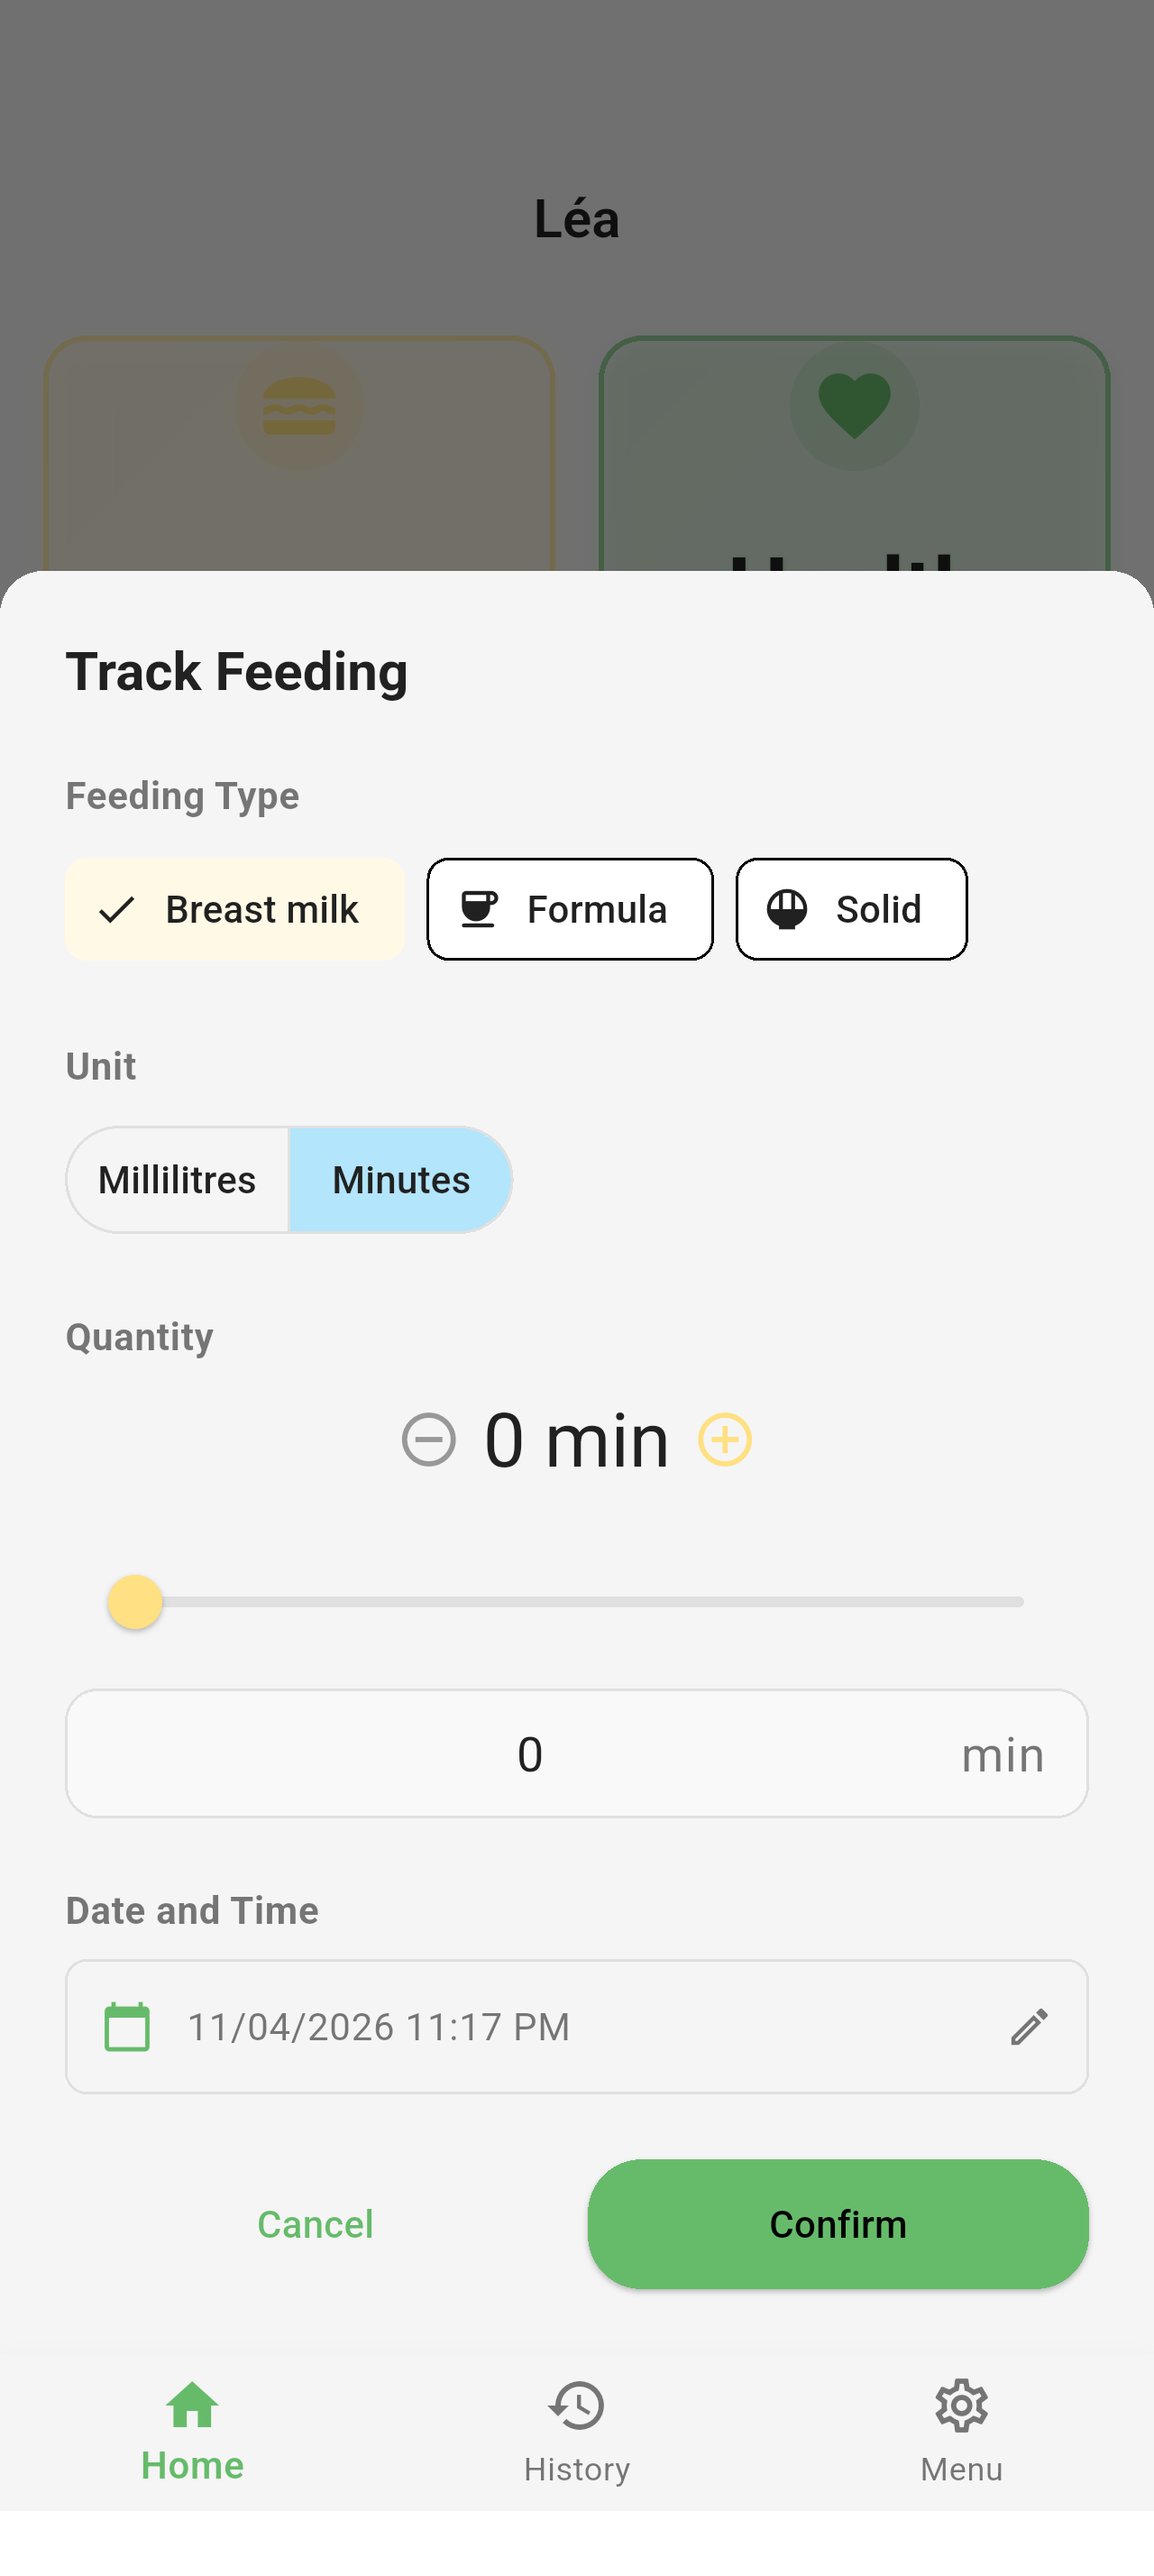
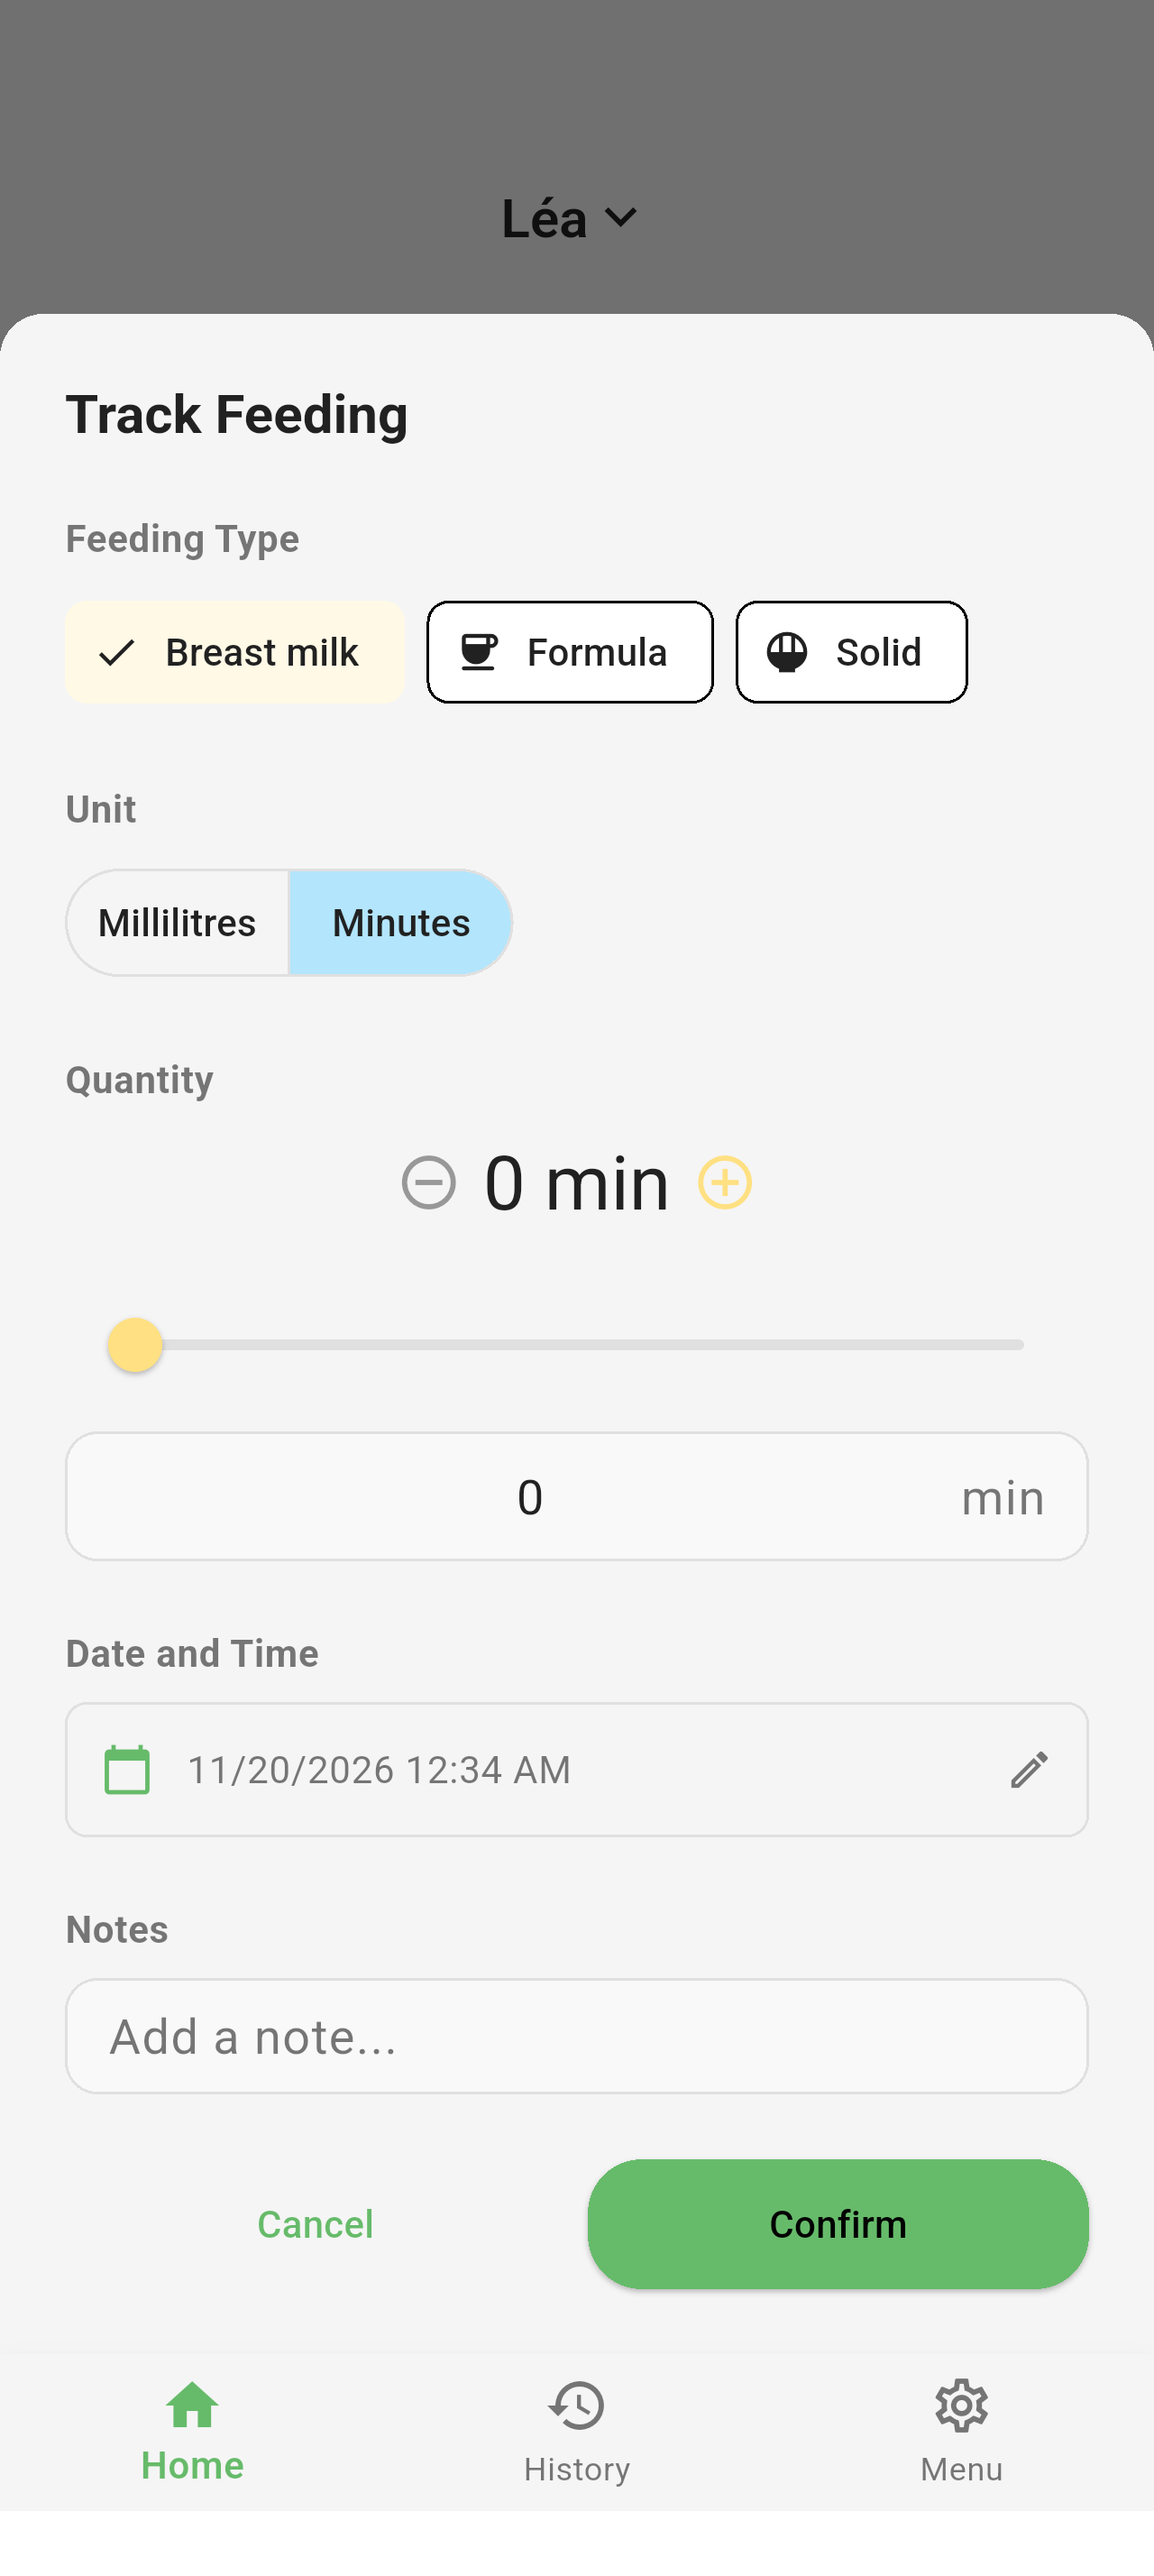
chore(release): v1.4.0 F-Droid artifacts — build 17
- changelogs/17.txt in en/fr/es (the Play release notes, * -bulleted
  like 15/16); F-Droid reads the changelog by versionCode at the tag
- docs/fdroiddata/com.pvjio.mamadera.yml: single Builds entry
  (1.4.0 / 17, commit: v1.4.0), CurrentVersion bumped. The recipe
  blocks are unchanged — git diff v1.3.2..develop over android/,
  ios/, pubspec.lock and the CI workflow is empty, so the seds and
  rm: [ios] carry over verbatim
- fastlane phoneScreenshots (Home/Feeding/History) recaptured on
  Pixel_10_Pro from the v1.4.0 store set; they were stale since
  v1.3.1
- fdroiddata README: new current-status section, including the rule
  that the fork push happens only after v1.4.0 exists on GitHub

diff --git a/docs/fdroiddata/README.md b/docs/fdroiddata/README.md
@@ -8,6 +8,32 @@ holds two kinds of files that live in *different* repositories:
 | `com.pvjio.mamadera.yml` | fork of https://gitlab.com/fdroid/fdroiddata → `metadata/` |
 | (the `fastlane/metadata/android/` tree at the repo root) | **this repo** — F-Droid 2.0 fetches localized descriptions, changelogs and screenshots from the app's own source, in **fastlane layout** (required by the New App checklist — a plain `metadata/` dir happens to be read too, but it is not accepted for inclusion) |
 
+## Current status (2026-11-26 — build **17** prepared, tag pending)
+
+`com.pvjio.mamadera.yml` in this directory now carries one `Builds` entry
+(1.4.0 / **17**, `commit: v1.4.0`), `CurrentVersion: 1.4.0` /
+`CurrentVersionCode: **17**`, and nothing else changed. The fork's
+`mamadera-new-app` is still at `d8b8be3e` (16) — **the push happens only after
+`v1.4.0` exists on GitHub**: the pipeline builds `commit: v1.4.0` immediately,
+so pushing the entry early turns the MR red on a ref that does not exist yet
+(the 1.3.1 rule, same as the first push). After the push, `cmp` the two ymls
+again — they must be byte-identical.
+
+**Why nothing else in the recipe changed:** `git diff v1.3.2..develop --
+android/ ios/ pubspec.lock .github/workflows/ci.yml` is **empty** — v1.4.0 is
+pure Dart (schema v14, notifications, the reminder rework), so every prebuild
+sed, the `rm: [ios]` list and the `flutter-version` pin (still `3.44.8` at
+the tag) carry over verbatim from build 16.
+
+**Changelog and screenshots, both at the tag:** `changelogs/17.txt` exists in
+all three locales (the Play release notes, `*`-bulleted like 15/16), and the
+`fastlane/metadata/android/en-US/images/phoneScreenshots/` set (Home /
+Feeding / History) was recaptured on `Pixel_10_Pro` (1280×2856) from the
+v1.4.0 build — the ordering rule from the stale-captures note below: captures
+refresh in the release cycle, the tag comes after.
+
+---
+
 ## Current status (2026-11-14 — build **16** pushed to !53740, pipeline `3068542108`)
 
 `com.pvjio.mamadera.yml` in this directory is **byte-identical** to
